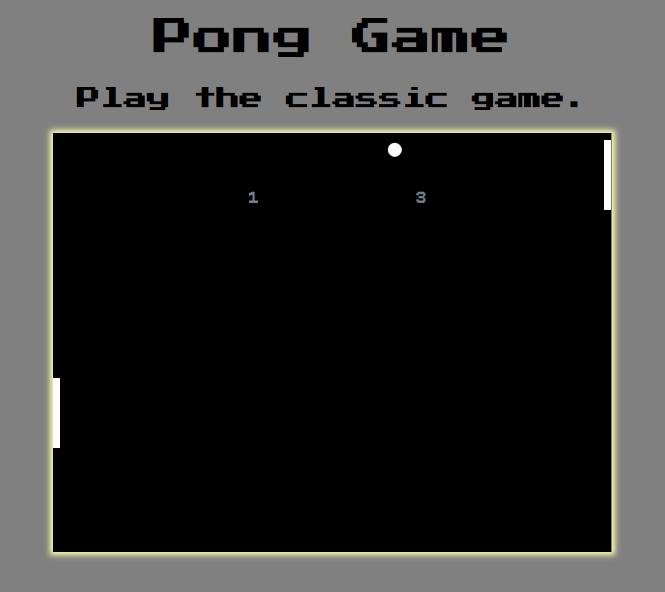
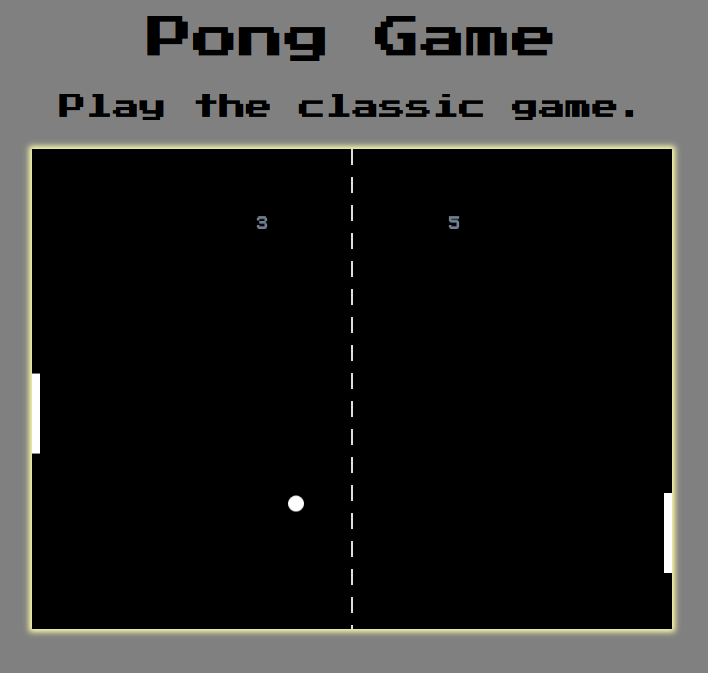
Finishing touches

diff --git a/script.js b/script.js
@@ -8,8 +8,7 @@ let leftPaddleY = 250;
 let rightPaddleY = 250;
 let playerScore = 0;
 let computerScore = 0;
-// TODO: Reset winning score to 8 when completed
-const WINNING_SCORE = 1;
+const WINNING_SCORE = 8;
 let showingWinScreen = false;
 const PADDLE_HEIGHT = 100;
 const PADDLE_THICKNESS = 10;
@@ -25,11 +24,21 @@ window.onload = () => {
     moveEverything();
   }, 1000 / framesPerSecond);
 
+  canvas.addEventListener("mousedown", restartGame);
+
   canvas.addEventListener("mousemove", (e) => {
     let mousePosition = calculateMousePosition(e);
     leftPaddleY = mousePosition.y - PADDLE_HEIGHT / 2;
   });
 };
+
+function restartGame(e) {
+  if (showingWinScreen) {
+    playerScore = 0;
+    computerScore = 0;
+    showingWinScreen = false;
+  }
+}
 
 function calculateMousePosition(e) {
   let rect = canvas.getBoundingClientRect();
@@ -44,8 +53,6 @@ function calculateMousePosition(e) {
 
 function ballReset() {
   if (playerScore >= WINNING_SCORE || computerScore >= WINNING_SCORE) {
-    playerScore = 0;
-    computerScore = 0;
     showingWinScreen = true;
   }
   ballSpeedX = -ballSpeedX;
@@ -102,22 +109,40 @@ function moveEverything() {
   }
 }
 
+function drawNet() {
+  for (let i = 0; i < canvas.height; i += 35) {
+    colorRect(canvas.width / 2 - 1, i, 2, 20, "white");
+  }
+}
 function drawEverything() {
-  // draws the black canvas
+  // Draws the black canvas
   colorRect(0, 0, canvas.width, canvas.height, "black");
 
+  // Displays who won message
   if (showingWinScreen) {
+    if (playerScore >= WINNING_SCORE) {
+      canvasContext.fillStyle = "slategray";
+      canvasContext.font = "18px PressStart";
+      canvasContext.fillText(`Congratulations, you won!`, 190, 180);
+    } else if (computerScore >= WINNING_SCORE) {
+      canvasContext.fillStyle = "slategray";
+      canvasContext.font = "18px PressStart";
+      canvasContext.fillText(`The computer won.`, 253, 180);
+    }
+
+    // Play again message
     canvasContext.fillStyle = "slategray";
     canvasContext.font = "18px PressStart";
-    // TODO: Use the template literals to indicate which player won the game.
-    canvasContext.fillText("Click to play again", 235, 250);
+    canvasContext.fillText("Click to play again", 235, 375);
     return;
   }
 
-  // left player paddle
+  drawNet();
+
+  // Left player paddle
   colorRect(0, leftPaddleY, PADDLE_THICKNESS, PADDLE_HEIGHT, "white");
 
-  // right player paddle
+  // Right player paddle
   colorRect(
     canvas.width - PADDLE_THICKNESS,
     rightPaddleY,
@@ -126,7 +151,7 @@ function drawEverything() {
     "white"
   );
 
-  // displays the score on the screen
+  // Displays the score on the screen
   canvasContext.fillStyle = "slategray";
   canvasContext.font = "32px Pixelboy";
   canvasContext.fillText(playerScore, 280, 100);

diff --git a/style.css b/style.css
@@ -19,5 +19,5 @@ canvas {
   margin: 0 auto;
   display: block;
   box-shadow: 0px 0px 8px 4px #ffffac;
-  /* cursor: none; */
+  cursor: none;
 }
